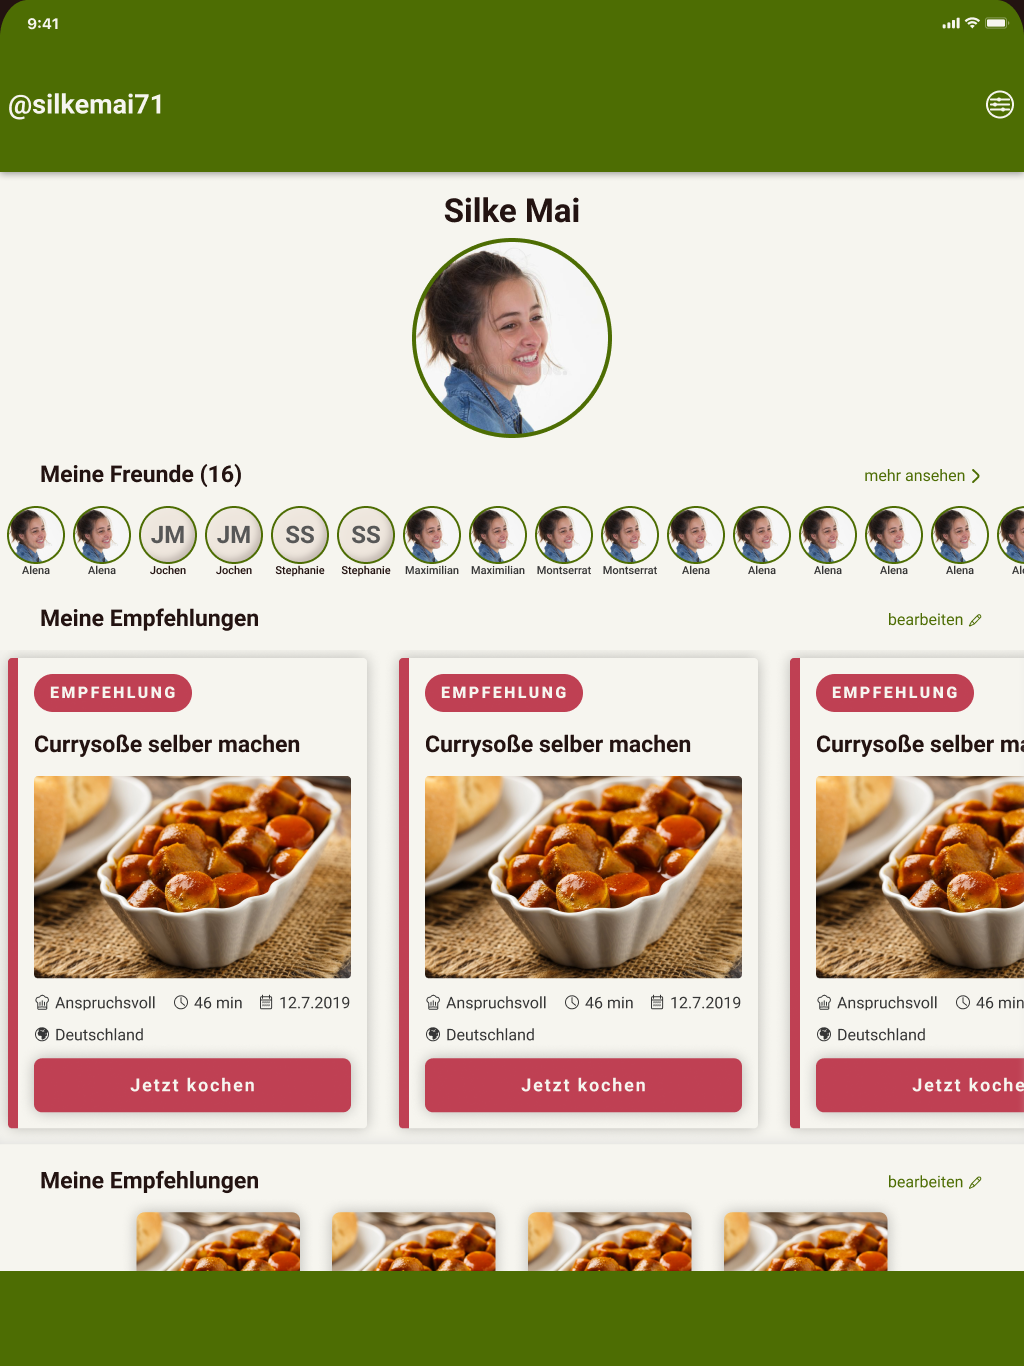
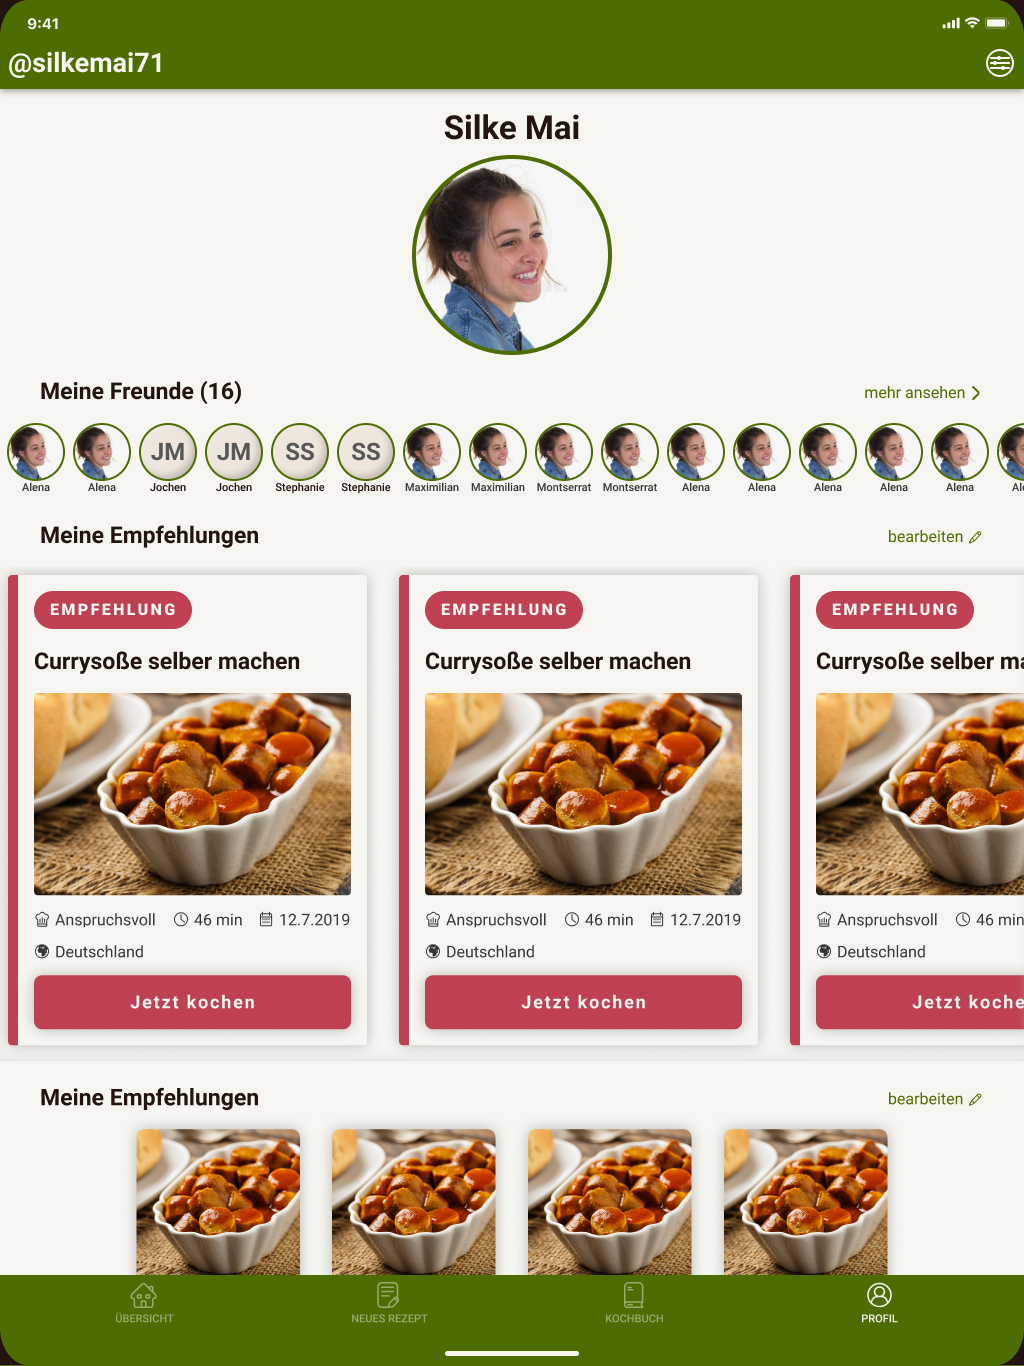
[FEATURE] Add tablet cookbook overview

diff --git a/Artefakte/Zeiterfassung/Arbeitsmatrix.md b/Artefakte/Zeiterfassung/Arbeitsmatrix.md
@@ -150,9 +150,10 @@
 | 22       | Interface Design                    | MockUps                                           | [TASK]          | Mobile and Tablet Card design                                    | 20.10.21        | 12.10.21            |                 | 5,75            |
 | 22       | Interface Design                    | MockUps                                           | [TASK]          | Mobile refinement                                                | 22.10.21        | 12.10.21            |                 | 1,00            |
 | 22       | Interface Design                    | MockUps                                           | [FEATURE]       | Tablet Startseite und Profilübersicht                            | 22.10.21        | 12.10.21            |                 | 4,00            |
+| 22       | Interface Design                    | MockUps                                           | [FEATURE]       | Tablet Mein Kochbuch                                             | 23.10.21        | 12.10.21            |                 | 2,50            |
 |          |                                     |                                                   |                 |                                                                  |                 |                     |                 |                 |
 |          |                                     |                                                   |                 |                                                                  |                 |                     |                 |                 |
-|          | Stunden insgesamt                   | 323,75                                            | Stunden Seminar | 55                                                               | Stunden Projekt | 268,75              |                 |                 |
-|          |                                     |                                                   | Budget:         | 80                                                               | Budget:         | 46,25               |                 |                 |
+|          | Stunden insgesamt                   | 326,25                                            | Stunden Seminar | 55                                                               | Stunden Projekt | 271,25              |                 |                 |
+|          |                                     |                                                   | Budget:         | 80                                                               | Budget:         | 43,75               |                 |                 |
 |          | Kredits erreicht:                   | 11                                                |                 |                                                                  |                 |                     |                 |                 |
 |          | Kredits erfordert:                  | 15                                                |
